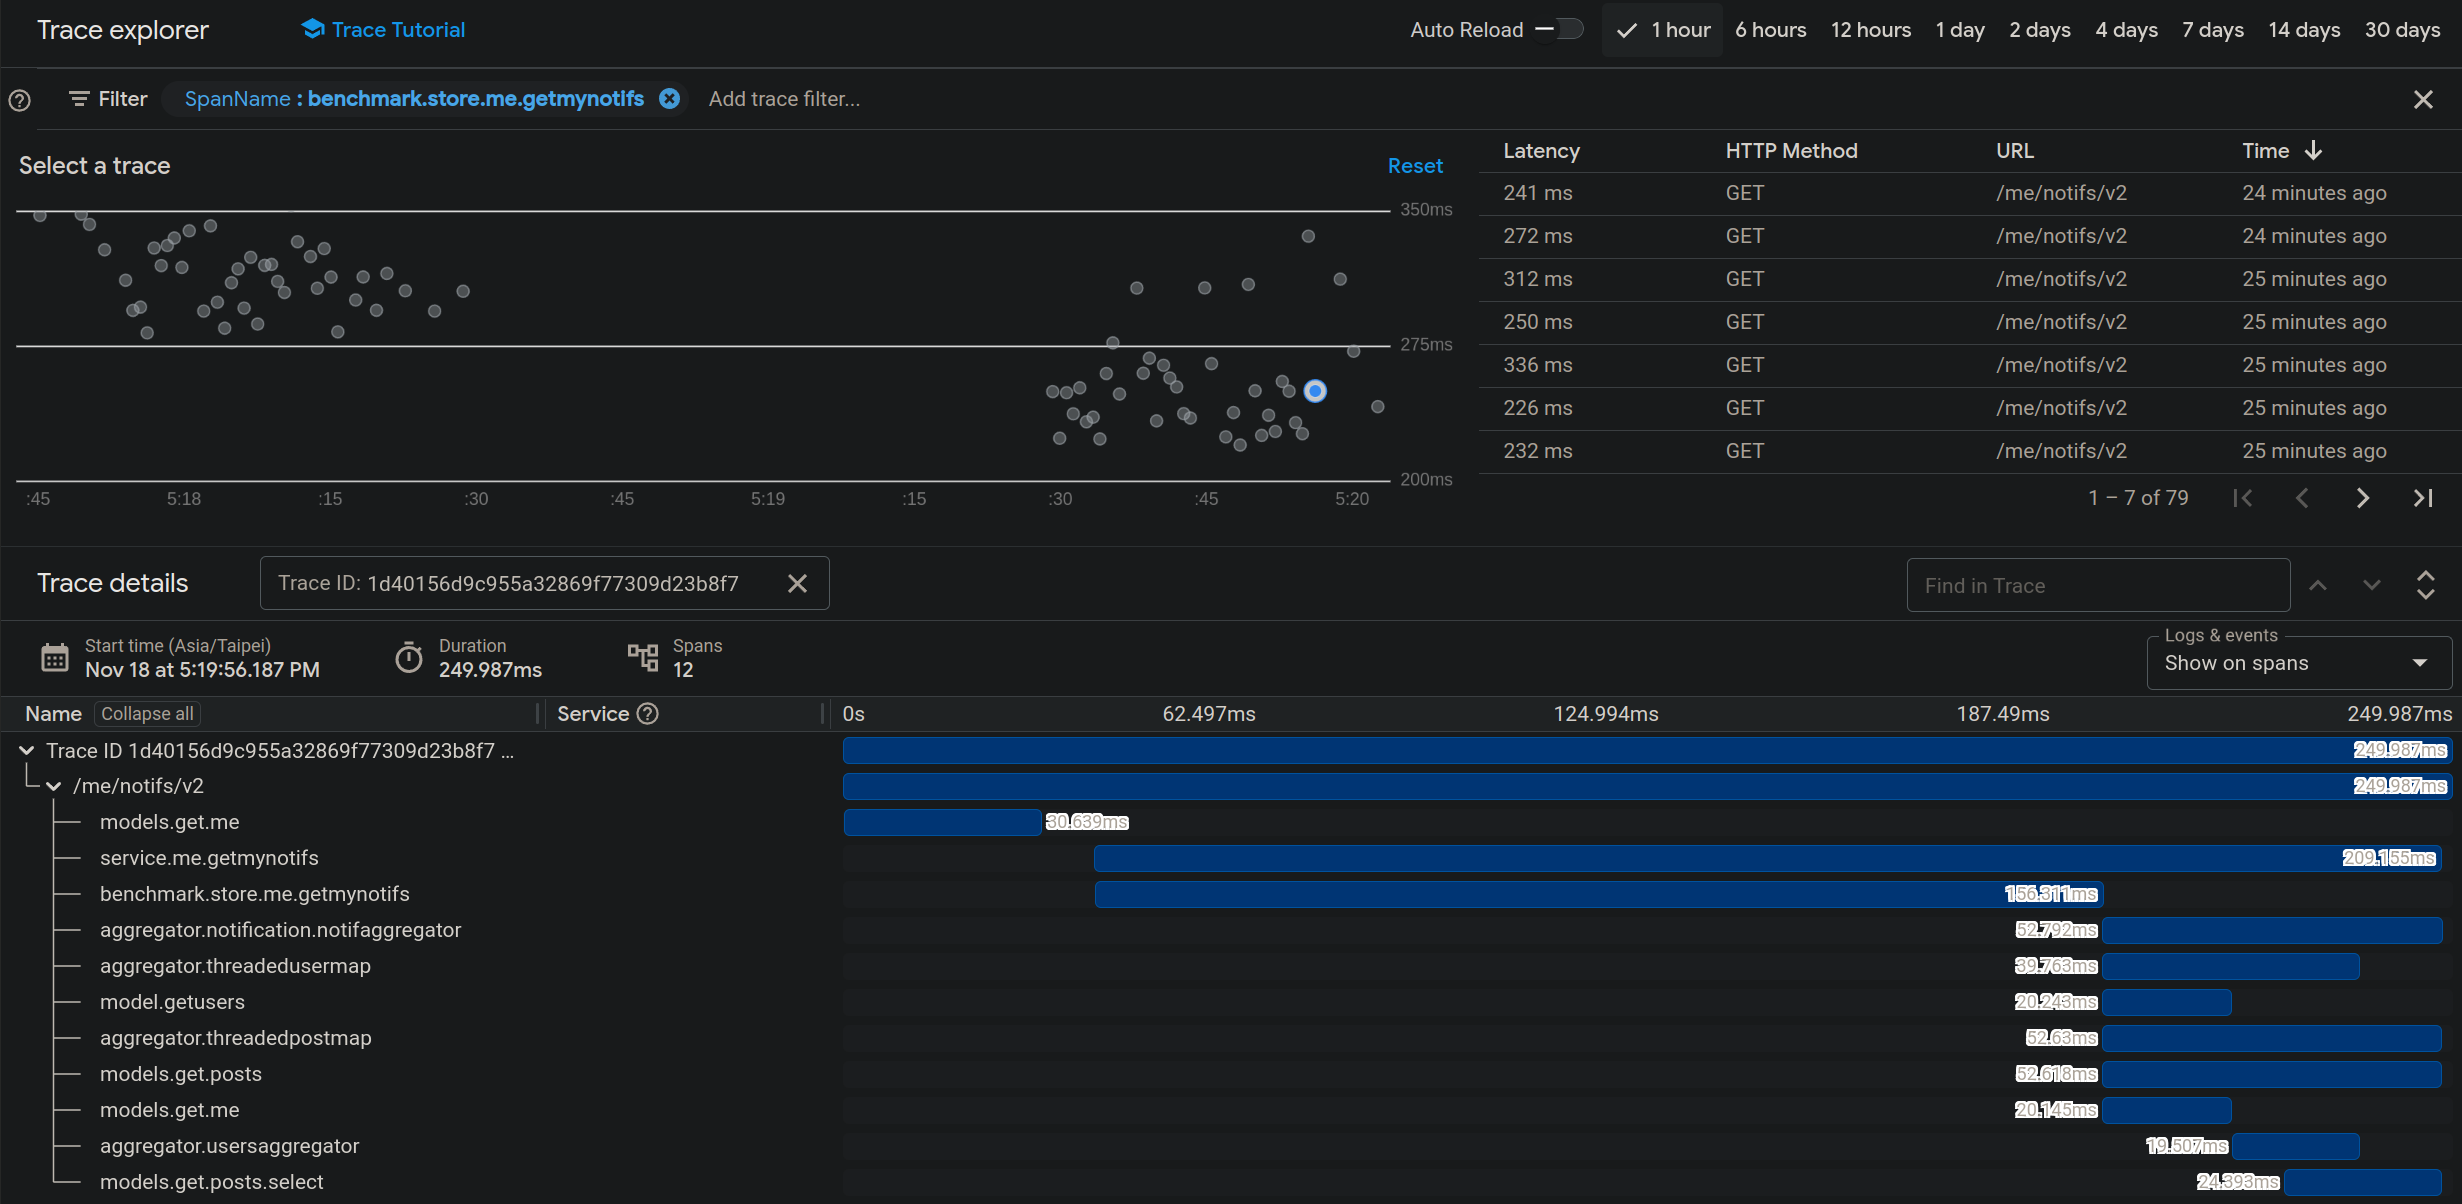
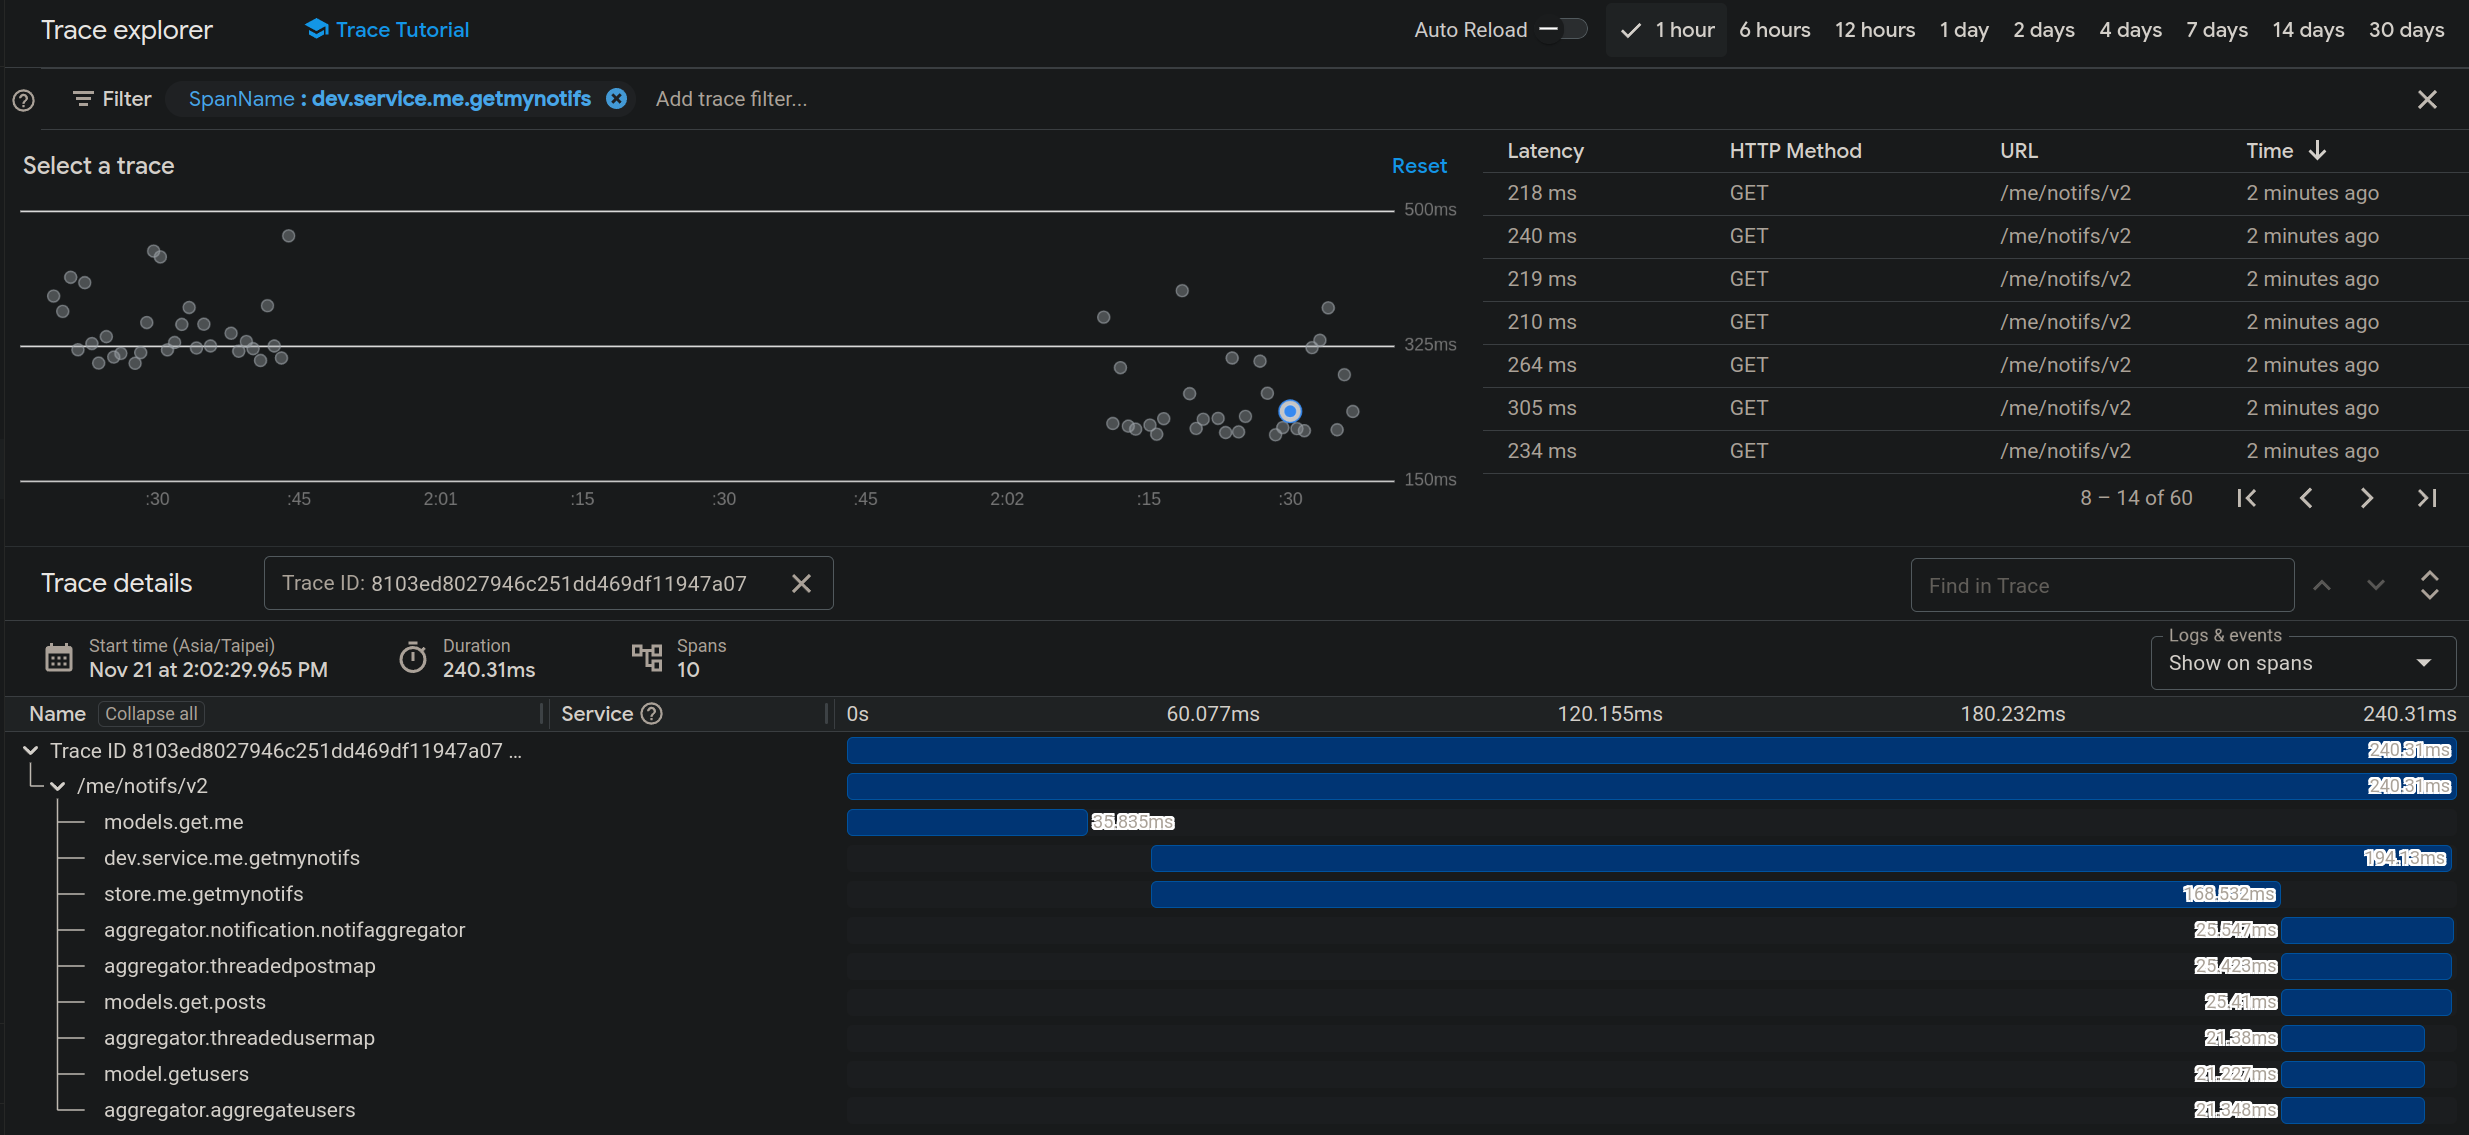
update: improved parallel

diff --git a/src/notification_api.md b/src/notification_api.md
@@ -1,13 +1,13 @@
 # It takes over 100s to get a notification list
 
-<p style="font-weight: bold">Oct 28, 2024 ~ Nov 18, 2024</p>
+<p style="font-weight: bold">Oct 28, 2024 ~ Nov 21, 2024</p>
 
 ## Result
 
 This is a post on how we optimize notification api response time from 
 
 - <b>worst case over 100s to under 1s</b>
-- <b>25% acceleration in average response time</b>
+- <b>28% acceleration in average response time</b>
 
 ##### trace before <-> trace after
 <img style="
